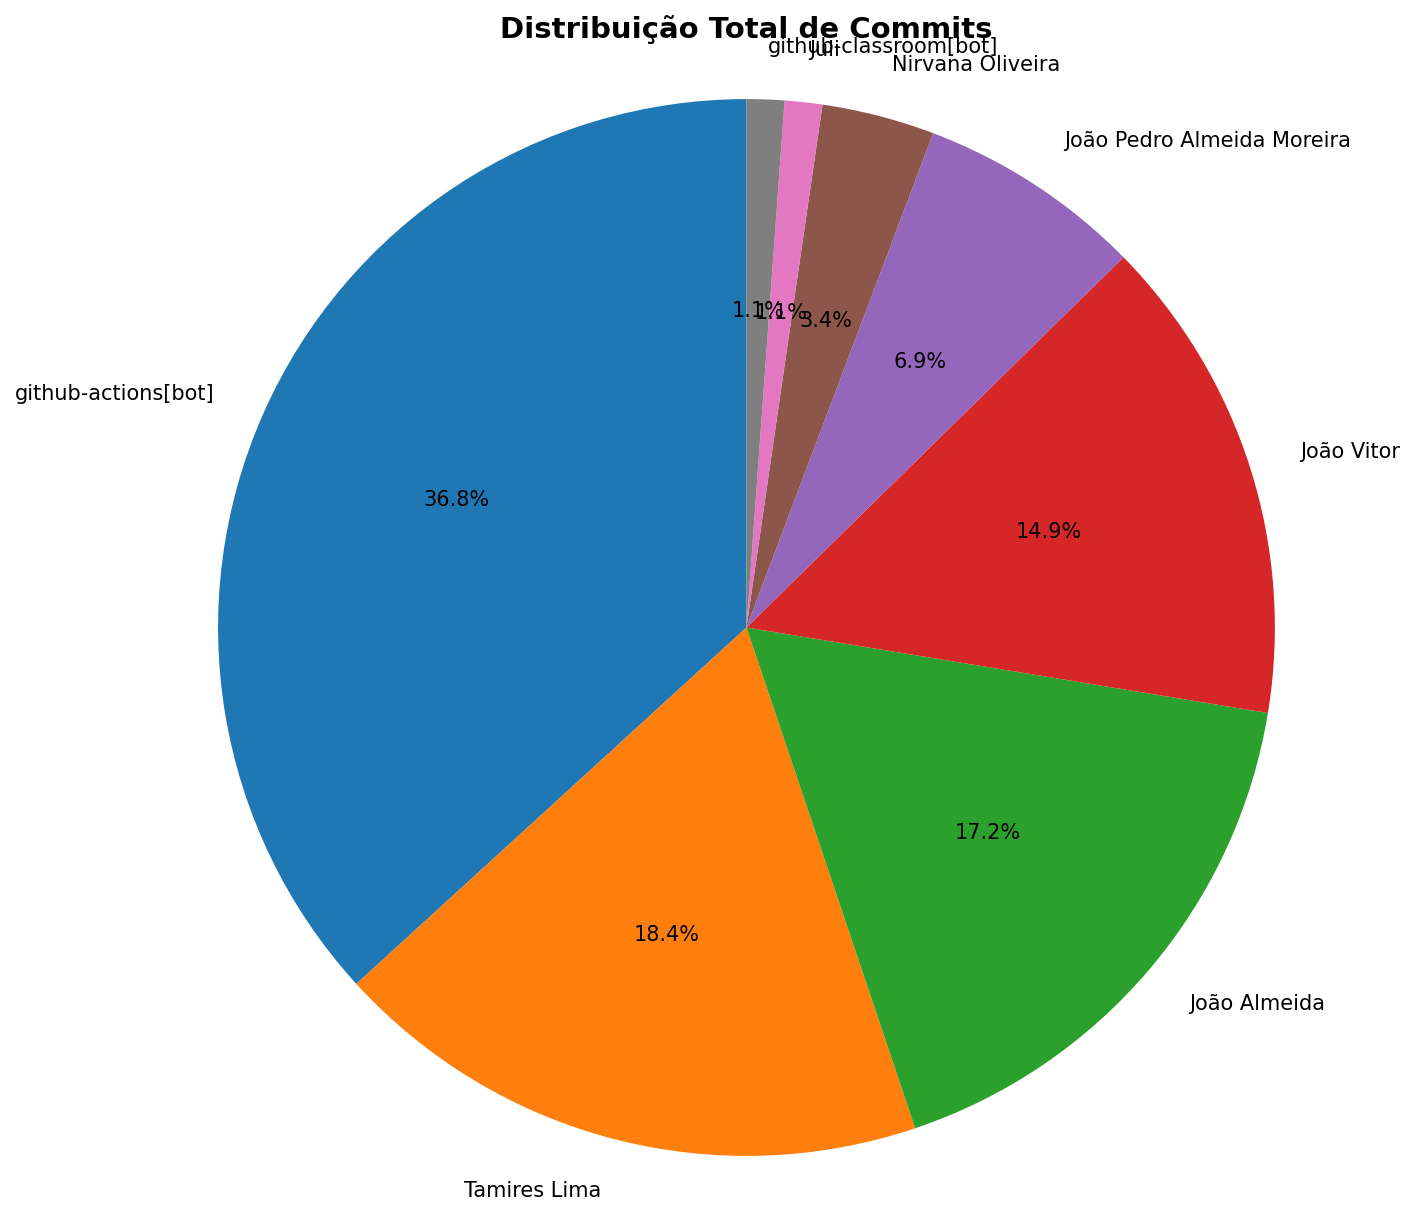
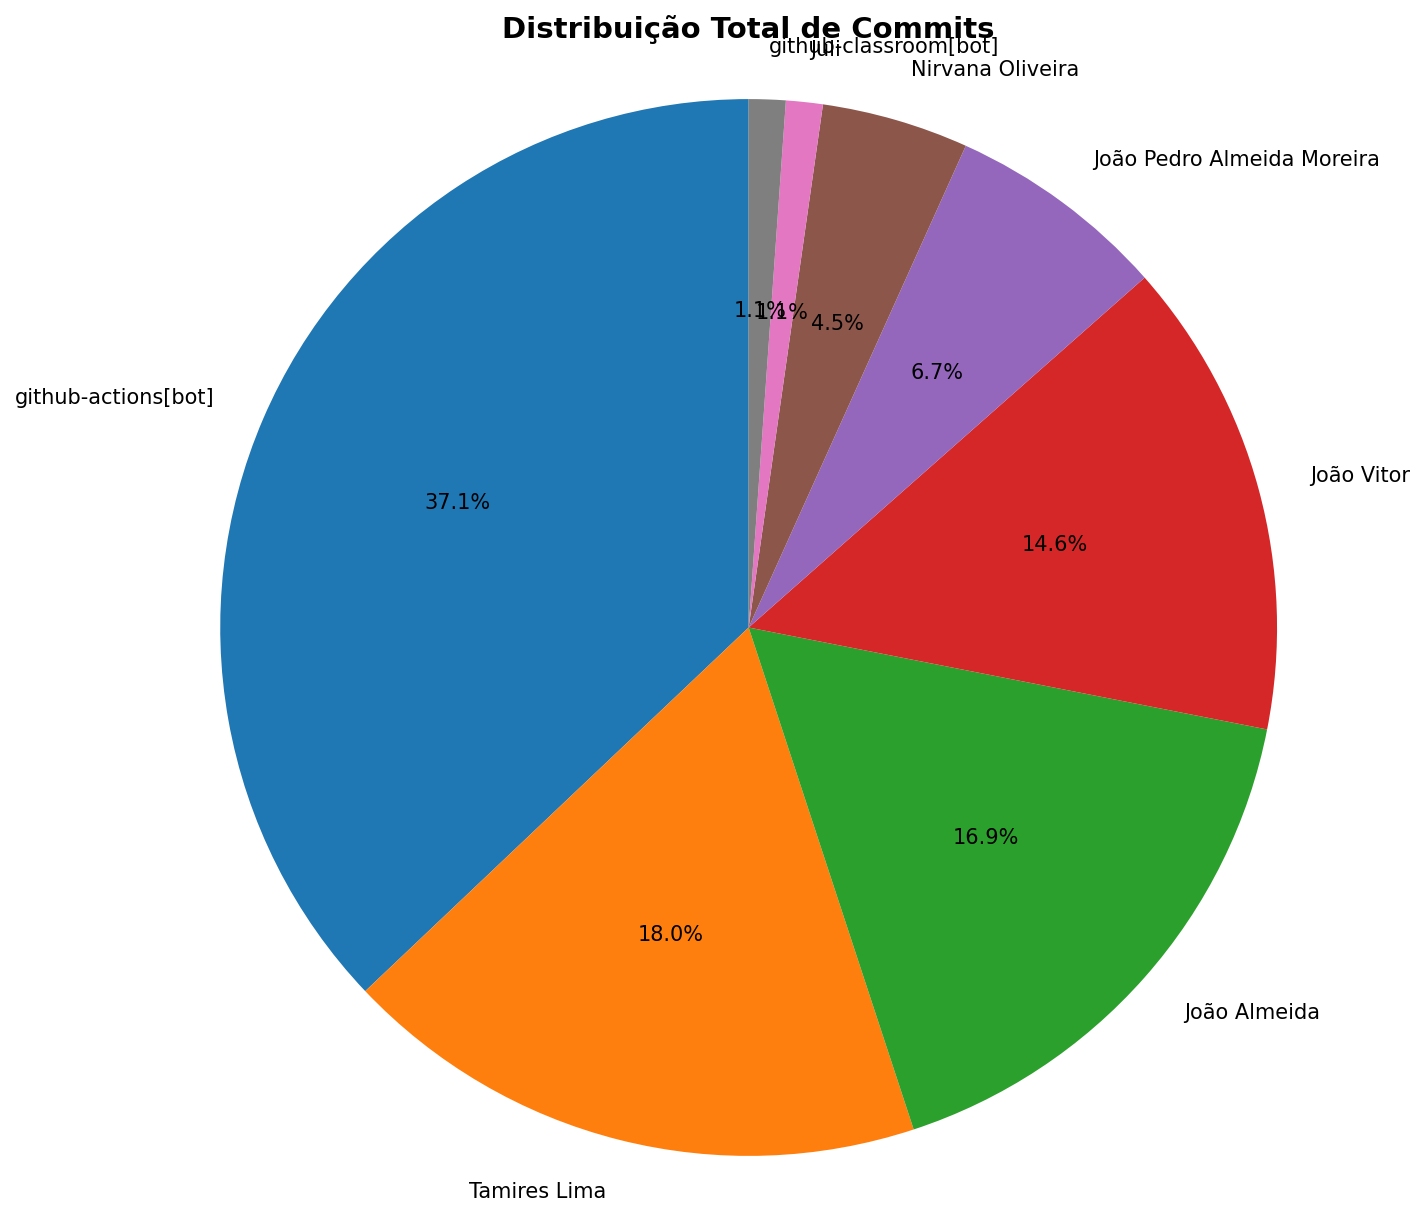
📊 Atualizar relatório de contribuições [skip ci]

diff --git a/documentos/CONTRIBUTION_REPORT.md b/documentos/CONTRIBUTION_REPORT.md
@@ -1,6 +1,6 @@
 # 📊 Relatório de Contribuições do Projeto
 
-**Última atualização:** 09/05/2026 16:19
+**Última atualização:** 10/05/2026 04:52
 
 ---
 
@@ -12,23 +12,27 @@
 | João Pedro Almeida Moreira |         6 |        24 |        18 |          2 |              5 |               1 |
 | João Vitor                 |        13 |       162 |        53 |          5 |             11 |               2 |
 | Juli                       |         1 |        58 |         9 |          3 |              0 |               0 |
-| Nirvana Oliveira           |         3 |       213 |        14 |          7 |              1 |               0 |
+| Nirvana Oliveira           |         4 |       534 |        19 |          9 |              1 |               0 |
 | Tamires Lima               |        16 |       286 |       113 |         25 |             16 |               3 |
-| github-actions[bot]        |        32 |       227 |       169 |          3 |             32 |               1 |
+| github-actions[bot]        |        33 |       235 |       177 |          3 |             33 |               1 |
 | github-classroom[bot]      |         1 |       774 |         0 |         19 |              1 |               3 |
 
 
 ## 📅 Contribuições Semanais (Todo o Semestre)
 
-**2026-05-02**: João Almeida: 14, João Pedro Almeida Moreira: 2, João Vitor: 2, Juli: 1, Nirvana Oliveira: 3, Tamires Lima: 4, github-actions[bot]: 15
+**2026-05-03**: João Almeida: 14, João Pedro Almeida Moreira: 2, João Vitor: 2, Juli: 1, Nirvana Oliveira: 4, Tamires Lima: 4, github-actions[bot]: 16
 
-**2026-04-25**: João Almeida: 1, João Vitor: 1, github-actions[bot]: 1
+**2026-04-26**: João Vitor: 1
 
-**2026-04-11**: João Pedro Almeida Moreira: 4, João Vitor: 10, Tamires Lima: 8, github-actions[bot]: 14
+**2026-04-19**: João Almeida: 1, github-actions[bot]: 1
 
-**2026-04-04**: Tamires Lima: 2, github-actions[bot]: 2
+**2026-04-12**: João Pedro Almeida Moreira: 4, João Vitor: 3, Tamires Lima: 8, github-actions[bot]: 10
 
-**2026-03-21**: Tamires Lima: 2, github-classroom[bot]: 1
+**2026-04-05**: João Vitor: 7, Tamires Lima: 2, github-actions[bot]: 6
+
+**2026-03-22**: Tamires Lima: 2
+
+**2026-03-15**: github-classroom[bot]: 1
 
 
 
